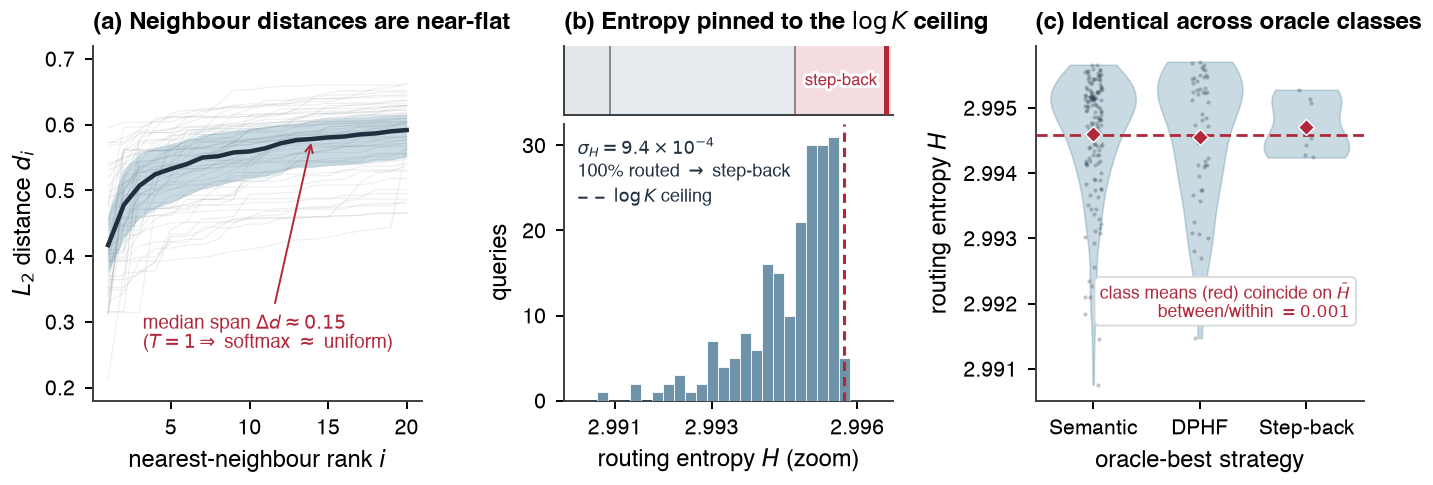
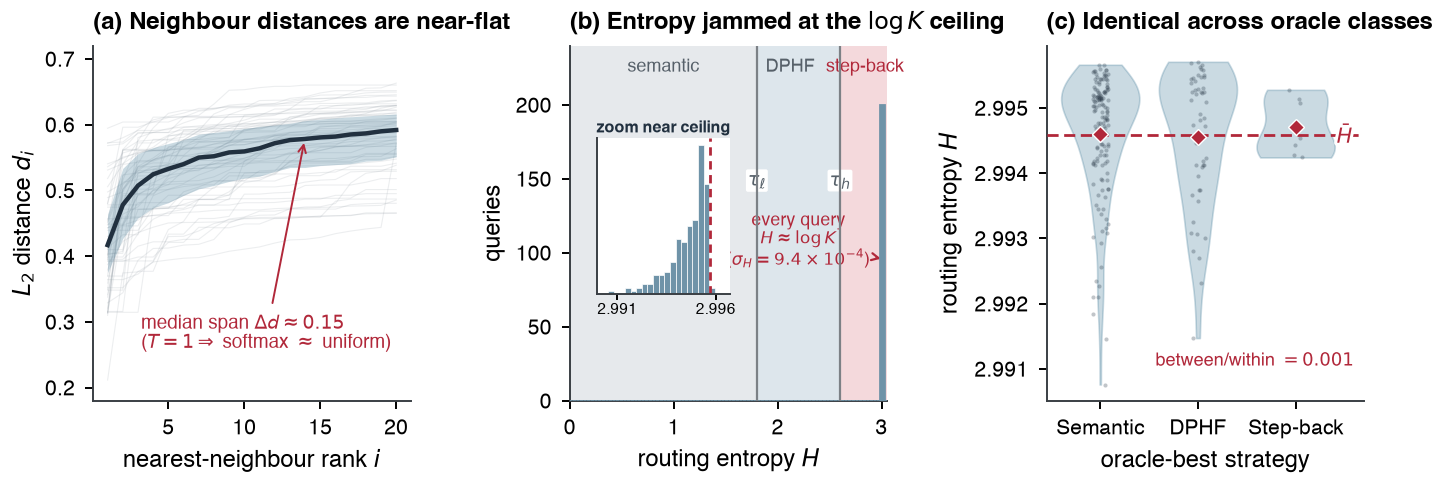
paper(fig): finalize routing figure -- full-range (b) with labeled regions+inset, clean (c)

diff --git a/paper/make_figures.py b/paper/make_figures.py
@@ -52,48 +52,46 @@ def fig_routing_degeneracy(data: dict, name: str) -> None:
     ax.set_ylabel("$L_2$ distance $d_i$")
     ax.set_title("(a) Neighbour distances are near-flat", loc="left")
 
-    # (b) entropy zoomed to the data (a spike at the ceiling); the EGR thresholds sit far
-    # to the left (shown in a full-range context strip on top), so every query lands in
-    # the step-back region. Two stacked axes: context strip + zoomed distribution.
-    gs = axes[1].get_subplotspec().subgridspec(2, 1, height_ratios=[1, 4], hspace=0.05)
-    axes[1].remove()
-    axc = fig.add_subplot(gs[0])   # full-range context strip
-    axz = fig.add_subplot(gs[1])   # zoomed distribution
+    # (b) full entropy range [0, log K]: EGR's three decision regions are wide and labelled,
+    # and every query's entropy is jammed at the far-right ceiling (a zoom inset shows the
+    # spike's shape). So EGR always picks step-back.
+    axb = axes[1]
     n_sb = sum(1 for q in qids if data["egr"][q] == "stepback")
-
-    # context strip: full EGR axis with the three decision regions + where mass sits.
-    axc.axvspan(1.6, tlo, color=fs.NULL_L, alpha=0.6, lw=0)
-    axc.axvspan(tlo, thi, color="#dfe7ec", alpha=0.8, lw=0)
-    axc.axvspan(thi, logk + 0.02, color="#f4d9dc", alpha=0.9, lw=0)
-    # EGR carves three regions at the thresholds; only the (wide enough) step-back region
-    # is named -- the narrow ones can't hold a readable label and the caption covers them.
+    top = logk + 0.06
+    axb.axvspan(-0.05, tlo, color=fs.NULL_L, alpha=0.55, lw=0)
+    axb.axvspan(tlo, thi, color="#dde6ec", lw=0)
+    axb.axvspan(thi, top, color="#f4d9dc", lw=0)
+    counts, _, _ = axb.hist(H, bins=np.linspace(-0.05, top, 90), color=fs.BAR,
+                            edgecolor=fs.BAR, zorder=4)
+    ymax = max(counts) * 1.2
+    axb.set_ylim(0, ymax)
+    for xc, lab, col in [(tlo / 2, "semantic", "#566069"),
+                         (2.12, "DPHF", "#566069"),
+                         (2.84, "step-back", fs.ACCENT)]:
+        axb.text(xc, ymax * 0.965, lab, fontsize=6.5, ha="center", va="top", color=col)
     for x, lab in [(tlo, r"$\tau_\ell$"), (thi, r"$\tau_h$")]:
-        axc.axvline(x, color="#888", lw=0.7, zorder=2)
-        axc.text(x, -0.62, lab, fontsize=6.5, ha="center", va="top", color="#555",
-                 transform=axc.get_xaxis_transform())
-    fs.halo(axc.text((thi + logk) / 2, 0.5, "step-back", fontsize=6, ha="center", va="center",
-            color=fs.ACCENT, transform=axc.get_xaxis_transform()))
-    axc.axvline(H.mean(), color=fs.ACCENT, lw=1.8, zorder=5)  # where all mass sits
-    axc.set_xlim(1.6, logk + 0.03)
-    axc.set_ylim(0, 1)
-    axc.set_yticks([])
-    axc.tick_params(labelbottom=False, length=0)
-    axc.set_title(r"(b) Entropy pinned to the $\log K$ ceiling", loc="left")
+        axb.axvline(x, color="#7c8186", lw=0.8, zorder=5)
+        axb.text(x, ymax * 0.62, lab, fontsize=7, ha="center", va="center", color="#566069",
+                 bbox=dict(boxstyle="round,pad=0.1", fc="white", ec="none"))
+    axb.annotate(f"every query\n$H \\approx \\log K$\n($\\sigma_H = {fs.sci(H.std())}$)",
+                 xy=(H.mean(), ymax * 0.4), xytext=((tlo + thi) / 2, ymax * 0.45),
+                 fontsize=6.3, color=fs.ACCENT, ha="center", va="center",
+                 arrowprops=dict(arrowstyle="->", lw=0.8, color=fs.ACCENT))
+    axb.set_xlim(0, top)
+    axb.set_xlabel("routing entropy $H$")
+    axb.set_ylabel("queries")
+    axb.set_title(r"(b) Entropy jammed at the $\log K$ ceiling", loc="left")
 
-    # zoomed distribution near the ceiling.
-    axz.hist(H, bins=np.linspace(H.min() - 0.0008, logk + 0.0008, 30),
-             color=fs.BAR, edgecolor="white", linewidth=0.3, zorder=3)
-    axz.axvline(logk, color=fs.ACCENT, lw=1.1, ls=(0, (3, 2)), zorder=4)
-    axz.text(0.04, 0.96, fr"$\sigma_H = {fs.sci(H.std())}$" + "\n"
-             + f"{100 * n_sb / len(qids):.0f}% routed $\\to$ step-back" + "\n"
-             + r"$\mathdefault{-\,-}$ $\log K$ ceiling",
-             transform=axz.transAxes, fontsize=6.5, va="top", ha="left", color=fs.INK,
-             linespacing=1.5)
-    axz.set_xlim(H.min() - 0.0008, logk + 0.0010)
-    axz.set_xlabel("routing entropy $H$ (zoom)")
-    axz.set_ylabel("queries")
-    axz.ticklabel_format(axis="x", useOffset=False)
-    axz.set_xticks(np.round(np.linspace(H.min(), logk, 3), 3))
+    # zoom inset over the empty low-entropy region: the spike's actual shape.
+    axin = axb.inset_axes([0.085, 0.30, 0.42, 0.44])
+    axin.hist(H, bins=np.linspace(H.min() - 0.0008, logk + 0.0008, 24), color=fs.BAR,
+              edgecolor="white", linewidth=0.25)
+    axin.axvline(logk, color=fs.ACCENT, lw=1.0, ls=(0, (3, 2)))
+    axin.set_xlim(H.min() - 0.0008, logk + 0.001)
+    axin.set_xticks([round(H.min(), 3), round(logk, 3)])
+    axin.tick_params(labelsize=5.5, length=2, pad=1)
+    axin.set_yticks([])
+    axin.set_title("zoom near ceiling", fontsize=5.8, color=fs.INK, pad=2)
 
     # (c) entropy does not separate the oracle-best classes: identical violins, and the
     # per-class means all land on a single grand-mean line.
@@ -114,13 +112,14 @@ def fig_routing_degeneracy(data: dict, name: str) -> None:
         ax.plot(i, np.mean(g), "D", color=fs.ACCENT, ms=4, mec="white", mew=0.5, zorder=6)
     between = sum(len(g) * (np.mean(g) - grand) ** 2 for g in groups if g)
     within = sum(sum((x - np.mean(g)) ** 2 for x in g) for g in groups if g)
-    ax.text(0.96, 0.28, "class means (red) coincide on $\\bar H$\n"
-            f"between/within $= {between / max(within, 1e-9):.3f}$",
-            transform=ax.transAxes, fontsize=6.3, ha="right", va="center", color=fs.ACCENT,
-            bbox=dict(boxstyle="round,pad=0.3", facecolor="white", edgecolor=fs.NULL_L, lw=0.6),
-            zorder=7)
+    # label the grand-mean line at its right end; the stat sits in the empty lower-right.
+    fs.halo(ax.text(len(groups) + 0.42, grand, r"$\bar H$", fontsize=7.5, color=fs.ACCENT,
+            va="center", ha="left", zorder=7))
+    fs.halo(ax.text(0.97, 0.09, f"between/within $= {between / max(within, 1e-9):.3f}$",
+            transform=ax.transAxes, fontsize=6.5, ha="right", va="bottom", color=fs.ACCENT, zorder=7))
     ax.set_xticks(range(1, len(labels) + 1))
     ax.set_xticklabels([_LABEL_NAMES[s] for s in labels])
+    ax.set_xlim(0.45, len(labels) + 0.7)
     ax.set_xlabel("oracle-best strategy")
     ax.set_ylabel("routing entropy $H$")
     ax.set_title("(c) Identical across oracle classes", loc="left")